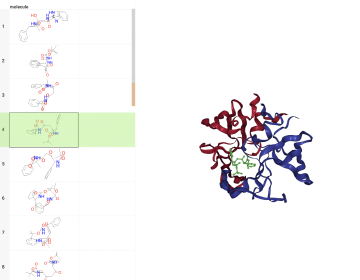
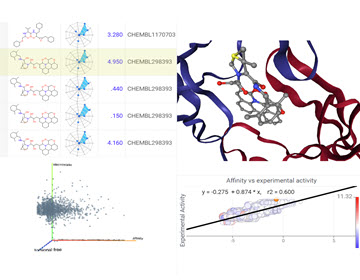
GROK-15322: Tutorials: Fixed demo cards' images
Tutorials: Fixed demo cards' images for Docking & Bio

diff --git a/packages/Tutorials/CHANGELOG.md b/packages/Tutorials/CHANGELOG.md
@@ -1,5 +1,9 @@
 # Tutorials changelog
 
+## 1.3.24 (2024-04-15)
+
+Fixed demo cards' images for Docking and Bio Docking conformations
+
 ## 1.3.23 (2024-04-11)
 
 Fixed a couple of bugs in Cheminformatics tutorials
